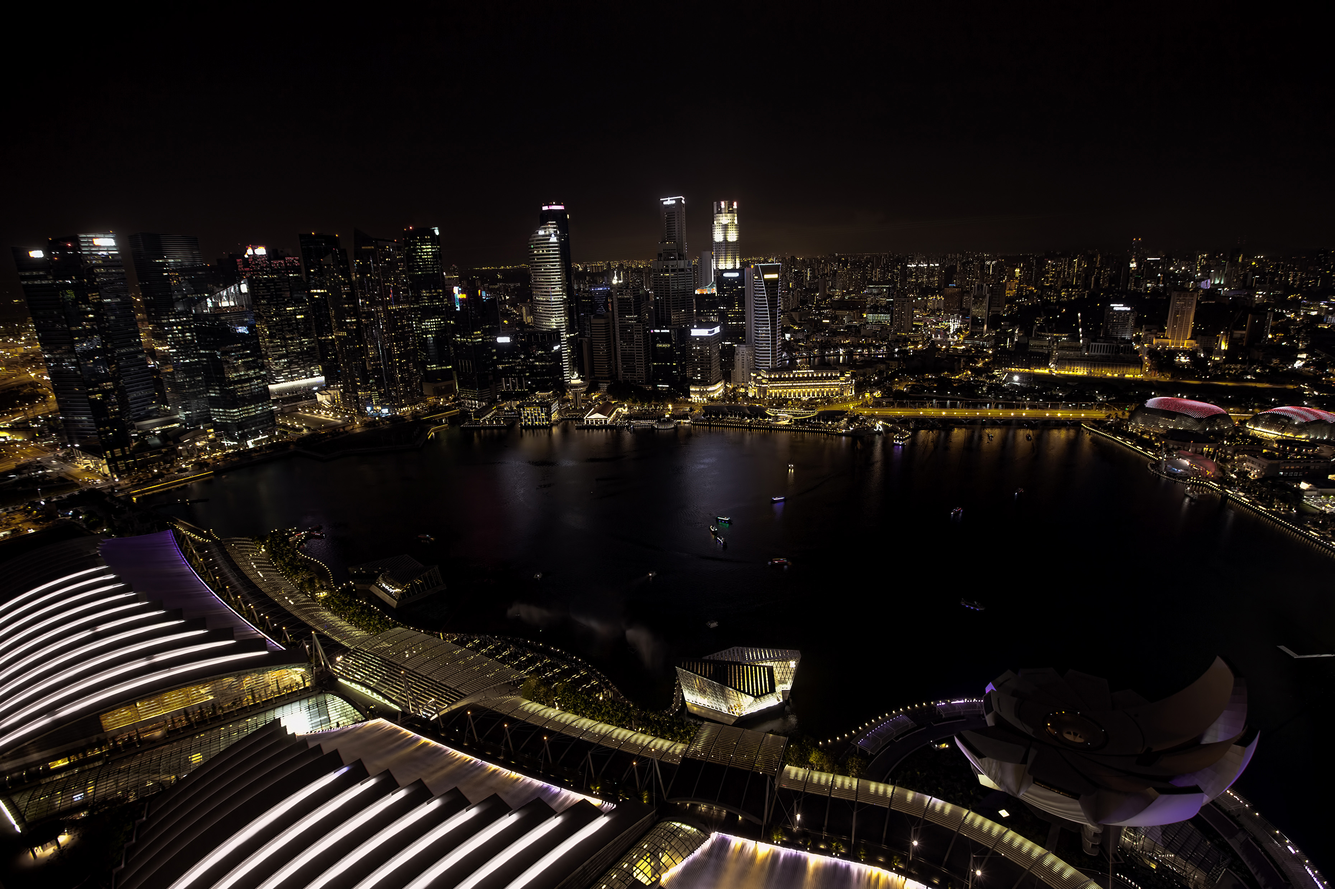
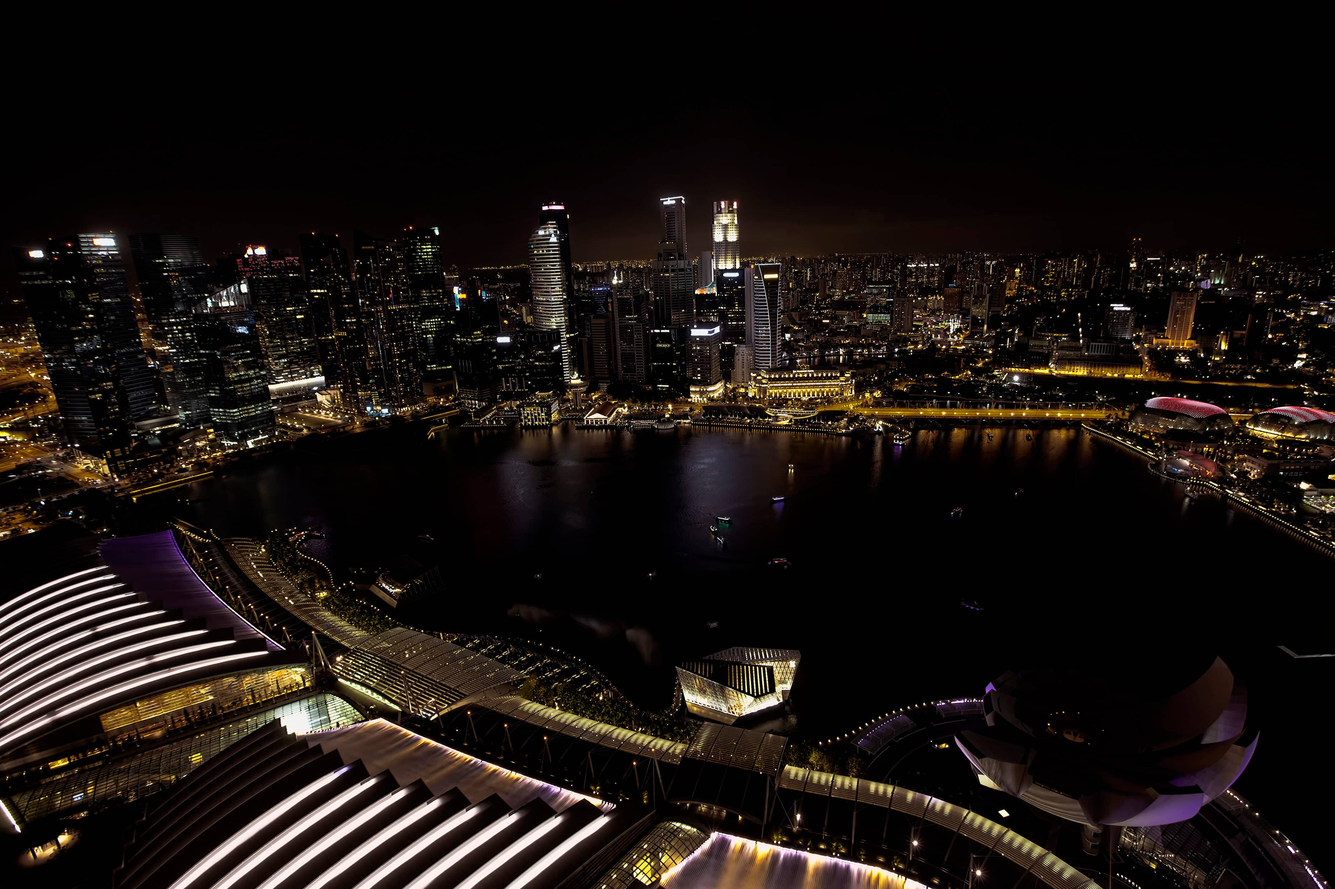
compress bg image + prepare for fix errors in sidebar

diff --git a/src/styles/_sidebar.sass b/src/styles/_sidebar.sass
@@ -89,6 +89,11 @@ pbx-sidebar
         .pbx_input_row
             position: relative
 
+pbx-address-book
+    pbx-sidebar
+        .pbx_input_error_float_focus
+            position: fixed
+
 
 // partner-program-component
     // .sidebar .sidebar_description_wrap .sidebar_info_description .description_item_wrap .description_text

diff --git a/src/index.html b/src/index.html
@@ -14,5 +14,6 @@
   <script src="http://code.jquery.com/jquery-3.3.1.min.js"></script>
   <script src="https://cdnjs.cloudflare.com/ajax/libs/jquery.nicescroll/3.7.6/jquery.nicescroll.min.js"></script>
   <script src="./assets/js/scrollbar.js"></script>
+  <script src="./assets/js/sidebar.js"></script>
 </body>
 </html>

diff --git a/src/assets/js/sidebar.js b/src/assets/js/sidebar.js
@@ -1,0 +1,5 @@
+jQuery(document).ready(function(){
+    
+    console.log('1234567890');
+
+  });
